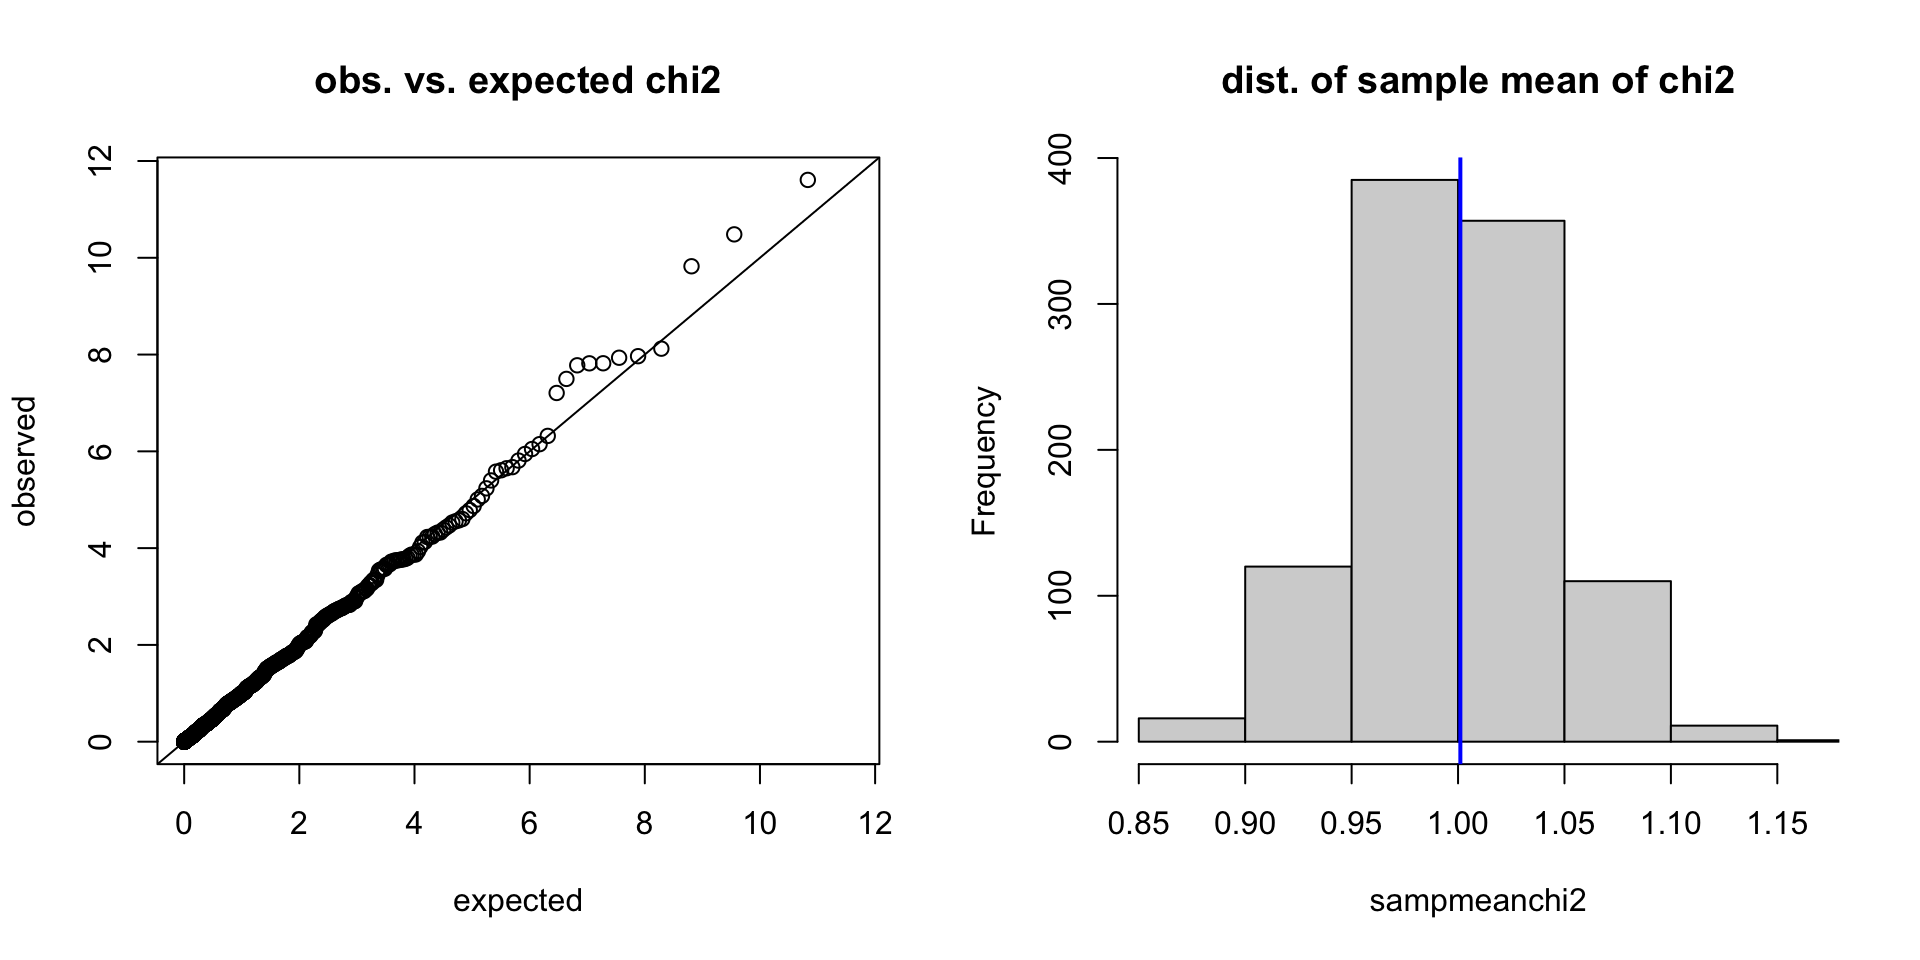
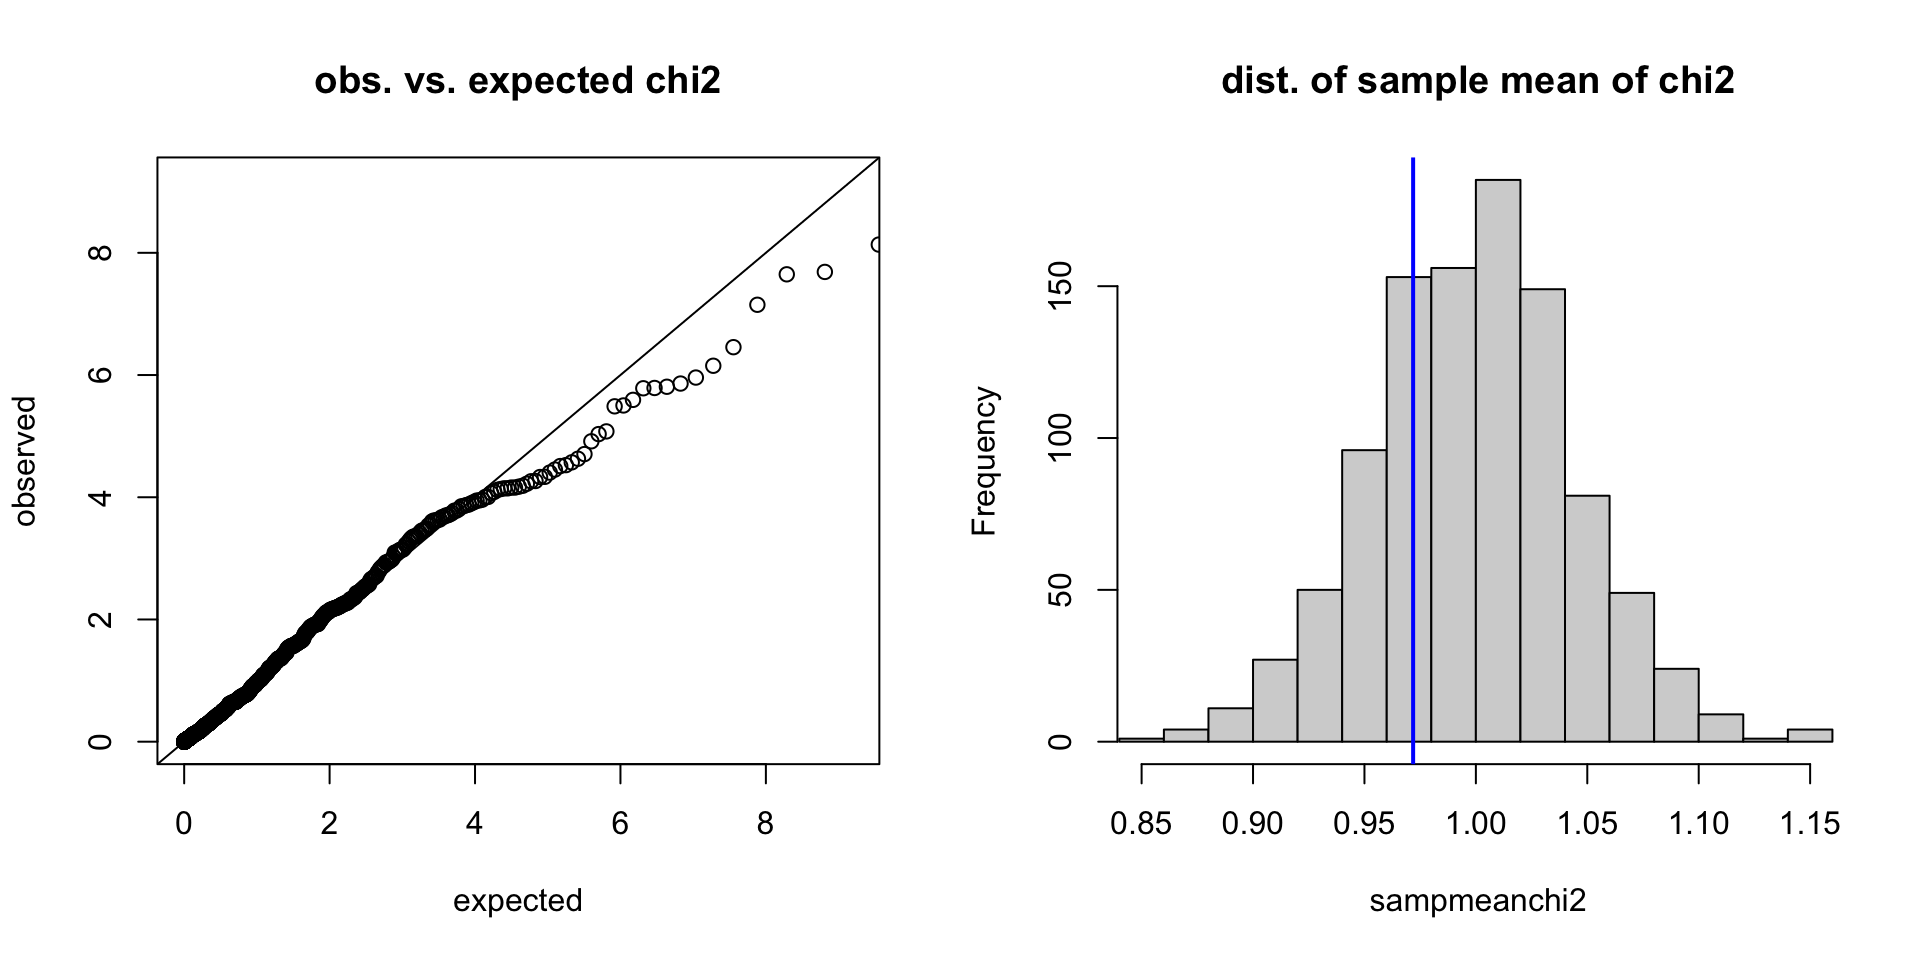
almost final

diff --git a/docs/index.html b/docs/index.html
@@ -465,7 +465,13 @@ Hae Kyung Im
 </section>
 <section id="leeuw-et-al-questioned-the-validity-of-twas" class="slide level2" data-background-image="assets/slide-background.svg">
 <h2>Leeuw et al questioned the validity of TWAS</h2>
-
+<p>:::{.columns} :::{.column width=75%} <img data-src="assets/leeuws-twas-validity.png"></p>
+<p>:::</p>
+<div class="column" style="width:30%;">
+<ul>
+<li>Leewu et al claim that noise in predictors cause inflation of TWAS</li>
+</ul>
+</div>
 <!-- ## Why should we worry about inflation? {background-image=assets/slide-background.svg} -->
 <!-- . . . -->
 <!-- <br> -->
@@ -485,7 +491,7 @@ Hae Kyung Im
 <!-- <br>  -->
 <!-- <br>  -->
 <!-- just reject the null every time </center> -->
-<img data-src="assets/leeuws-twas-validity.png" style="width:75.0%" class="r-stretch"></section>
+</section>
 <section id="check-inflation-via-simulations" class="slide level2" data-background-image="assets/slide-background.svg">
 <h2>Check inflation via simulations</h2>
 <div class="columns">
@@ -531,7 +537,7 @@ T &amp;= \sum_k \gamma_k ~ X_k \quad \epsilon_\text{twas} \perp\!\!\!\perp T
 <p><span class="math display">\[\begin{align*}
 Y &amp;= \beta ~ T +  \epsilon_\text{twas} \\
 
-T &amp;= \sum_k (\gamma_k + e) ~ X_k \\
+\tilde{T} &amp;= \sum_k (\gamma_k + e) ~ X_k \\
 
 e &amp;\perp\!\!\!\perp Y \quad \epsilon_\text{twas} \perp\!\!\!\perp T
 \end{align*}\]</span></p>
@@ -544,9 +550,9 @@ e &amp;\perp\!\!\!\perp Y \quad \epsilon_\text{twas} \perp\!\!\!\perp T
 <span id="cb2-6"><a href="#cb2-6"></a>gamma <span class="ot">=</span> <span class="fu">rnorm</span>(M)</span>
 <span id="cb2-7"><a href="#cb2-7"></a>e <span class="ot">=</span> <span class="fu">rnorm</span>(M)</span>
 <span id="cb2-8"><a href="#cb2-8"></a>X <span class="ot">=</span> <span class="fu">matrix</span>(<span class="fu">rbinom</span>(N<span class="sc">*</span>M,<span class="dv">2</span>,maf),N,M)</span>
-<span id="cb2-9"><a href="#cb2-9"></a>T <span class="ot">=</span> X <span class="sc">%*%</span> (gamma <span class="sc">+</span> e)</span>
-<span id="cb2-10"><a href="#cb2-10"></a>Y <span class="ot">=</span> beta <span class="sc">*</span> T <span class="sc">+</span> etwas</span>
-<span id="cb2-11"><a href="#cb2-11"></a>fit <span class="ot">=</span> <span class="fu">lm</span>(Y <span class="sc">~</span> T)</span></code><button title="Copy to Clipboard" class="code-copy-button"><i class="bi"></i></button></pre></div>
+<span id="cb2-9"><a href="#cb2-9"></a>Ttilde <span class="ot">=</span> X <span class="sc">%*%</span> (gamma <span class="sc">+</span> e)</span>
+<span id="cb2-10"><a href="#cb2-10"></a>Y <span class="ot">=</span> beta <span class="sc">*</span> Ttilde <span class="sc">+</span> etwas</span>
+<span id="cb2-11"><a href="#cb2-11"></a>fit <span class="ot">=</span> <span class="fu">lm</span>(Y <span class="sc">~</span> Ttilde)</span></code><button title="Copy to Clipboard" class="code-copy-button"><i class="bi"></i></button></pre></div>
 </div>
 </div><div class="column" style="width:60%;">
 <div class="fragment">
@@ -583,8 +589,8 @@ e &amp;\perp\!\!\!\perp Y \quad \epsilon_\text{twas} \perp\!\!\!\perp T
 <p>We can dismiss the report that error in prediction invalidates *WAS</p>
 </div>
 </section>
-<section id="joint-work-with" class="slide level2 nostretch" data-background-image="assets/slide-background.svg">
-<h2>Joint work with</h2>
+<section id="the-story-doesnt-end-there-joint-work-with" class="slide level2 nostretch" data-background-image="assets/slide-background.svg">
+<h2>The story doesn’t end there, joint work with</h2>
 <p><img data-src="assets/yanyu-and-festus.png" style="width:65.0%"></p>
 </section>
 <section id="lets-revisit-the-simulation-using-polygenic-y" class="slide level2 nostretch" data-background-image="assets/slide-background.svg">
@@ -608,12 +614,12 @@ T &amp;= \sum_k \gamma_k ~ X_k \\
 <span id="cb3-2"><a href="#cb3-2"></a>N <span class="ot">=</span> <span class="dv">1000</span></span>
 <span id="cb3-3"><a href="#cb3-3"></a>M <span class="ot">=</span> <span class="dv">999</span></span>
 <span id="cb3-4"><a href="#cb3-4"></a>maf<span class="ot">=</span><span class="fl">0.4</span></span>
-<span id="cb3-5"><a href="#cb3-5"></a>etwas <span class="ot">=</span> <span class="fu">rnorm</span>(N)</span>
+<span id="cb3-5"><a href="#cb3-5"></a>epsi <span class="ot">=</span> <span class="fu">rnorm</span>(N)</span>
 <span id="cb3-6"><a href="#cb3-6"></a>gamma <span class="ot">=</span> <span class="fu">rnorm</span>(M)</span>
 <span id="cb3-7"><a href="#cb3-7"></a>delta <span class="ot">=</span> <span class="fu">rnorm</span>(M)</span>
 <span id="cb3-8"><a href="#cb3-8"></a>X <span class="ot">=</span> <span class="fu">matrix</span>(<span class="fu">rbinom</span>(N<span class="sc">*</span>M,<span class="dv">2</span>,maf),N,M)</span>
 <span id="cb3-9"><a href="#cb3-9"></a>T <span class="ot">=</span> X <span class="sc">%*%</span> gamma </span>
-<span id="cb3-10"><a href="#cb3-10"></a>Y <span class="ot">=</span> beta <span class="sc">*</span> T <span class="sc">+</span> X <span class="sc">%*%</span> delta <span class="sc">+</span> etwas</span>
+<span id="cb3-10"><a href="#cb3-10"></a>Y <span class="ot">=</span> beta <span class="sc">*</span> T <span class="sc">+</span> X <span class="sc">%*%</span> delta <span class="sc">+</span> epsi</span>
 <span id="cb3-11"><a href="#cb3-11"></a>fit <span class="ot">=</span> <span class="fu">lm</span>(Y <span class="sc">~</span> T)</span></code><button title="Copy to Clipboard" class="code-copy-button"><i class="bi"></i></button></pre></div>
 </div>
 </div><div class="column" style="width:60%;">
@@ -648,7 +654,7 @@ T &amp;= \sum_k \gamma_k ~ X_k \\
 <div>
 <ul>
 <li class="fragment"><p>if we do the math, we get <span class="math display">\[ E \chi^2 \approx
-1 +  N ~ h^2 ~\frac{\tilde\gamma' \cdot \Sigma^2  \cdot \tilde\gamma}{\tilde\gamma' \cdot  \Sigma  \cdot \tilde\gamma} \frac{1}{M} \]</span></p></li>
+1 +  N ~ h^2 ~\left ( \frac{\tilde\gamma' \cdot \Sigma^2  \cdot \tilde\gamma}{\tilde\gamma' \cdot  \Sigma  \cdot \tilde\gamma} \frac{1}{M} \right )\]</span></p></li>
 <li class="fragment"><p>we define the inflation factor <span class="math inline">\(\Phi\)</span> as <span class="math display">\[ \Phi  = \frac{\tilde\gamma' \cdot \Sigma^2  \cdot \tilde\gamma}{\tilde\gamma' \cdot  \Sigma  \cdot \tilde\gamma} \frac{1}{M} \]</span></p></li>
 <li class="fragment"><p>when SNPs are independent <span class="math inline">\(\Phi = \frac{1}{M}\)</span> we get the expression we guessed <span class="math inline">\(E \chi^2 = 1 + N h^2 \frac{1}{M}\)</span></p></li>
 </ul>
@@ -658,34 +664,37 @@ T &amp;= \sum_k \gamma_k ~ X_k \\
 <section id="we-can-derive-a-more-general-expression" class="slide level2" data-background-image="assets/slide-background.svg">
 <h2>We can derive a more general expression</h2>
 <p>for the TWAS χ2 Statistic with Polygenic Y &amp; Noisy Mediator</p>
-<p><span class="math display">\[E~\chi^2_\text{twas} \approx 1  + N ~h^2_\delta ~ \frac{\Phi(\text{gene})}{1 - \beta^2\tau^2} +  N ~ \frac{\beta^2 }{1 - \beta^2\tau^2}~\tau^2\]</span> where</p>
-<p><span class="math display">\[\tau^2 = \text{signal to noise ratio}\]</span> <span class="math display">\[ = \text{precision} = \frac{\text{var}(T)}{\text{var}(\tilde{T})}\]</span></p>
+<p><br><br></p>
+<p><span class="math display">\[E~\chi^2_\text{twas} \approx 1  + N ~h^2_\delta ~ \frac{\Phi(\text{gene})}{1 - \beta^2\tau^2} +  N ~ \frac{\beta^2 }{1 - \beta^2\tau^2}~\tau^2\]</span> <br><br> <br><br> where the precision <span class="math inline">\(\tau^2 = \text{signal to noise ratio} = \frac{\text{var}(T)}{\text{var}(\tilde{T})}\)</span></p>
+<!-- ## Alternative χ2 with Polygenic Y and Noisy Mediator {background-image=assets/slide-background.svg} -->
+<!-- ![](assets/alternative-chi2-polygenic-Y-noisy-T.png) -->
 </section>
-<section id="alternative-χ2-with-polygenic-y-and-noisy-mediator" class="slide level2" data-background-image="assets/slide-background.svg">
-<h2>Alternative χ2 with Polygenic Y and Noisy Mediator</h2>
-
-<img data-src="assets/alternative-chi2-polygenic-Y-noisy-T.png" class="r-stretch"></section>
 <section id="dependence-on-precision-of-predictor" class="slide level2" data-background-image="assets/slide-background.svg">
 <h2>Dependence on Precision of Predictor</h2>
 
 <img data-src="assets/inflation-vs-precision.png" class="r-stretch"></section>
-<section id="how-to-correct-the-inflation" class="slide level2" data-background-image="assets/slide-background.svg">
-<h2>How to Correct the Inflation</h2>
+<section id="can-we-correct-the-inflation" class="slide level2" data-background-image="assets/slide-background.svg">
+<h2>Can we correct the inflation?</h2>
 <div>
+<p><br></p>
 <ul>
-<li class="fragment"><p>Calculate the non centrality parameter</p></li>
-<li class="fragment"><p>Use noncentral χ2 to compute p-values</p></li>
+<li class="fragment"><p>Yes! <br></p></li>
+<li class="fragment"><p>Calculate the non centrality parameter <br></p></li>
+<li class="fragment"><p>Use noncentral χ2 to compute p-values <br></p></li>
 <li class="fragment"><p><span class="math inline">\(\texttt{pchisq(chi2, ncp=N*h2Y*phi, df=1, lower.tail=FALSE)}\)</span></p></li>
 </ul>
 </div>
 </section>
-<section id="estimated-factor-φ-for-genes-metabolites-brain-features" class="slide level2" data-background-image="assets/slide-background.svg">
+<section id="estimated-factor-φ-for-genes-metabolites-brain-features" class="slide level2 nostretch" data-background-image="assets/slide-background.svg">
 <h2>Estimated Factor Φ for Genes, Metabolites, Brain Features</h2>
-
-<img data-src="assets/phi-distribution.png" class="r-stretch"></section>
+<p><img data-src="assets/phi-distribution.png" style="width:85.0%"></p>
+<p><span class="math inline">\(\Phi\)</span> values will be included in the prediction weight databases and correction added to the PrediXcan software</p>
+</section>
 <section id="take-home-message" class="slide level2" data-background-image="assets/slide-background.svg">
 <h2>Take home message</h2>
 <p><br></p>
+<div class="columns">
+<div class="column" style="width:75%;">
 <div>
 <ul>
 <li class="fragment">Standard TWAS can yield inflated p-values when the trait is highly polygenic</li>
@@ -694,11 +703,16 @@ T &amp;= \sum_k \gamma_k ~ X_k \\
 <li class="fragment">Noisy predictors can be used which will reduce false negatives, as long as the type I error is controlled</li>
 </ul>
 </div>
+</div>
+</div>
+</section></section>
+<section id="thank-you" class="title-slide slide level1 center" data-background-color="white">
+<h1>Thank you</h1>
 
 <div class="footer footer-default">
 
 </div>
-</section></section>
+</section>
     </div>
   </div>
 
